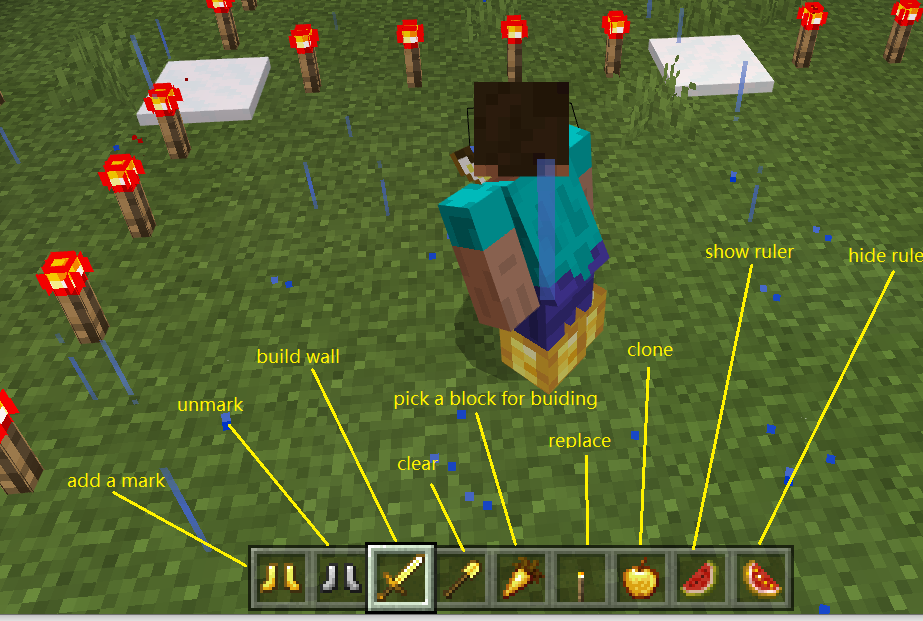
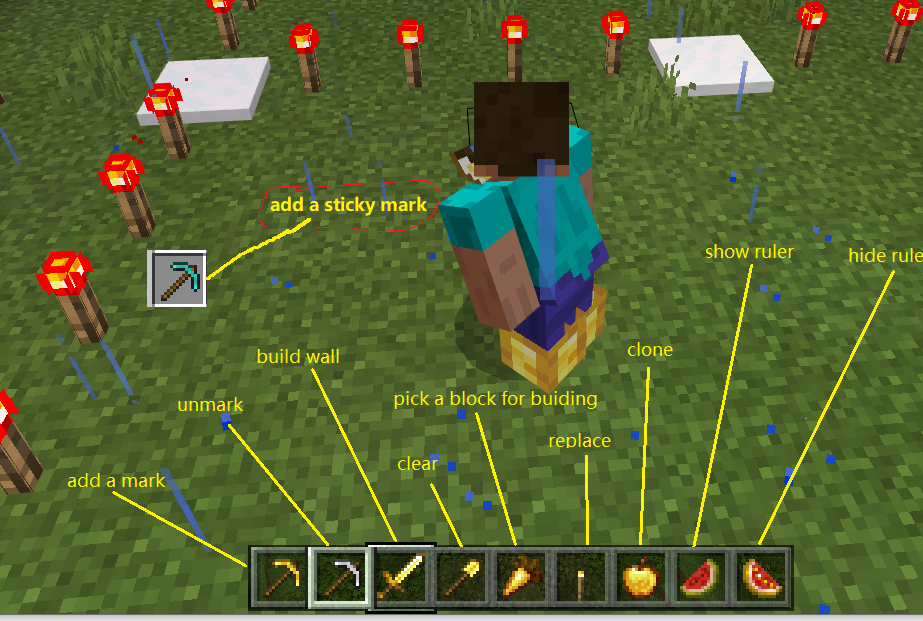
to support minecraft EE v1.14.x, replace boots with pickaxe

Changed region(s): [[0.273, 0.8567, 0.8797, 0.9791], [0.273, 0.306, 0.4854, 0.3977], [0.1517, 0.3977, 0.273, 0.5201]]

diff --git a/custom.ts b/custom.ts
@@ -1,4 +1,18 @@
-   /*
+ /*
+*******************************************************************************************************
+Copyright (c) 2020 magilisaau, magilisaau@gmail.com
+Author: Magi
+Contact: magilisaau@gmail.com
+CreateTime: 2020/04/20
+ModifyTime: 2020/6/28
+Description: the project is to help kids build house more efficiently and easily in the game minecraft
+*****************************MIT LICENSE, DO NOT CHANGE THE INFORMATION ABOVE***************************
+ebuilder document: https://github.com/magilisaau/ebuilder/blob/master/README.md
+how to build an underwater house in 6 minutes: https://youtu.be/zU4bbt1ONbc
+how to use ebuilder: https://youtu.be/V2RiOmHseGM
+how to import/install ebuilder extension to your minecraft:https://www.youtube.com/watch?v=j0soch-JSgI
+*/
+/*
 	Author: Magi
 	Contact: magilisaau@gmail.com
 	CreateTime: 2020/04/20

diff --git a/main.py b/main.py
@@ -1,20 +1,26 @@
 '''
+*******************************************************************************************************
+Copyright (c) 2020 magilisaau, magilisaau@gmail.com
 Author: Magi
 Contact: magilisaau@gmail.com
 CreateTime: 2020/04/20
 ModifyTime: 2020/6/28
 Description: the project is to help kids build house more efficiently and easily in the game minecraft
+*****************************MIT LICENSE, DO NOT CHANGE THE INFORMATION ABOVE***************************
+
+Author: Magi
+Contact: magilisaau@gmail.com
+ModifyTime: 2020/08/09
+Description: to support minecraft 1.14, replace golden boots with golden pickaxe, replace iron pickaxe with iron ingot
+             replace diamond boots with diamond pickaxe
 '''
 '''
-    This sourcecode include TWO main files
-    ---custom.ts: written in javascript, this is an extension which can be installed into Code Builder
-    this can be used seperately
-    ---main.py: written in python, implement a command list interface(CLI) and the graphical user interface(UI)
-    
-    ---buildAssistant.py: in python,this file has been obelete and no longer maintained, but it has been tested and can run seperately
-                 , I use python in the begining,but later I found the extension for minecraft can only be written in javascript, So it was
-                 devided into custom.ts and main.py.
+ebuilder document: https://github.com/magilisaau/ebuilder/blob/master/README.md
+how to build an underwater house in 6 minutes: https://youtu.be/zU4bbt1ONbc
+how to use ebuilder: https://youtu.be/V2RiOmHseGM
+how to import/install ebuilder extension to your minecraft:https://www.youtube.com/watch?v=j0soch-JSgI
 '''
+
 class setting:
     buildblock =GRASS
 def on_help():
@@ -64,9 +70,9 @@ player.on_chat("help", on_help)
 
 def help_ui(): 
     player.say("* right-click the block below to use *")
-    player.say("GOLDEN BOOTS: add a mark")
-    player.say("DIAMOND_BOOTS: add a sticky mark")
-    player.say("IRON BOOTS: umark")
+    player.say("GOLD PICKAXE: add a mark")
+    player.say("DIAMOND PICKAXE: add a sticky mark")
+    player.say("IRON PICKAXE: umark")
     player.say("GOLDEN SWORD: build wall")
     player.say("GOLDEN CARROT: choose a block")
     player.say("GOLDEN TORCH: replace")
@@ -246,14 +252,14 @@ def on_item_interacted_mark():
     ebuilder.acquire()
     ebuilder.mark(player.position())
     ebuilder.release()
-player.on_item_interacted(GOLDEN_BOOTS, on_item_interacted_mark)
+player.on_item_interacted(GOLDEN_PICKAXE, on_item_interacted_mark)
 
 def on_item_interacted_mark2():
     if not check_build_mode(): return
     ebuilder.acquire()
     ebuilder.mark2(player.position())
     ebuilder.release()
-player.on_item_interacted(DIAMOND_BOOTS, on_item_interacted_mark2)
+player.on_item_interacted(DIAMOND_PICKAXE, on_item_interacted_mark2)
 
 def on_item_interacted_unmark():
     if not check_build_mode(): return
@@ -263,7 +269,7 @@ def on_item_interacted_unmark():
     else:
         ebuilder.decrease_wall(1)
     ebuilder.release()
-player.on_item_interacted(IRON_BOOTS, on_item_interacted_unmark)
+player.on_item_interacted(IRON_PICKAXE, on_item_interacted_unmark)
 
 def on_item_interacted_clear():
     if not check_build_mode(): return
@@ -392,8 +398,8 @@ blocks.on_block_placed(0x40032, on_block_placed_south) #TORCH FACING NORTH
 
 # on stat,here
 player.execute("clear")
-mobs.give(mobs.target(ALL_PLAYERS),GOLDEN_BOOTS, 1)
-mobs.give(mobs.target(ALL_PLAYERS),IRON_BOOTS, 1)
+mobs.give(mobs.target(ALL_PLAYERS),GOLDEN_PICKAXE, 1)
+mobs.give(mobs.target(ALL_PLAYERS),IRON_PICKAXE, 1)
 mobs.give(mobs.target(ALL_PLAYERS),GOLDEN_SWORD, 1)
 mobs.give(mobs.target(ALL_PLAYERS),GOLDEN_SHOVEL, 1)
 mobs.give(mobs.target(ALL_PLAYERS),GOLDEN_CARROT, 1)
@@ -401,5 +407,5 @@ mobs.give(mobs.target(ALL_PLAYERS),TORCH, 1)
 mobs.give(mobs.target(ALL_PLAYERS),GOLDEN_APPLE, 1)
 mobs.give(mobs.target(ALL_PLAYERS),MELON, 1)
 mobs.give(mobs.target(ALL_PLAYERS),GLISTERING_MELON, 1)
-mobs.give(mobs.target(ALL_PLAYERS),DIAMOND_BOOTS, 1)
+mobs.give(mobs.target(ALL_PLAYERS),DIAMOND_PICKAXE, 1)
 

diff --git a/README.md b/README.md
@@ -1,10 +1,14 @@
 	Minecraft ebuilder Document
 
- Magi,  magilisaau@gmail.com, 2020.5.24				
+# Minecraft ebuilder Document
 
- sample video- ebuilder, how to build an underwater house in 6 minutes: https://youtu.be/zU4bbt1ONbc
+Magi,  magilisaau@gmail.com, 2020.5.24				
 
- youtube on ebuilder: https://youtu.be/V2RiOmHseGM
+how to build an underwater house in 6 minutes: https://youtu.be/zU4bbt1ONbc
+
+how to use ebuilder: https://youtu.be/V2RiOmHseGM
+
+how to import/install ebuilder extension to your minecraft:https://www.youtube.com/watch?v=j0soch-JSgI
 
 ## Introduction   
 
@@ -81,6 +85,8 @@ plant trees on the ground
 
 As mentioned before, the code can only be used on Minecraft EE,   you can get the game from https://education.minecraft.net/get-started/download/ , after logging in the game, press C key on your keyboard to open the coder builder, then import url https://github.com/magilisaau/ebuilder to your game,
 
+
+
 about how to import the code to you game, please refer to the teaching video on youtube https://www.youtube.com/watch?v=j0soch-JSgI
 
 ### Command Line Interface
@@ -120,17 +126,17 @@ sample video: Minecraft EE- build a underwater house in 6 minutes  https://youtu
 ![](https://github.com/magilisaau/ebuilder/blob/master/pic/ui2.png?raw=true)
 
 ```
-GOLDEN BOOTS: 	add a mark
-DIAMOND_BOOTS: 	add a sticky mark
-IRON BOOTS: 	umark/decrease a wall
-GOLDEN SWORD:	 build a wall/ increase a wall
-GOLDEN CARROT: 	choose a block
-GOLDEN TORCH:	 replace
-GOLDEN APPLE: 	clone
-GOLDEN SHOVEL: 	clear
-MELON: 			show ruler
-GLISTERING MELON: hide ruler
-GOLDEN_LEGGINGS: reset
+GOLDEN PICKAXE: 	add a mark (2020-08-09, replace boots with pickaxe)
+DIAMOND PICKAXE: 	add a sticky mark (2020-08-09, replace boots with pickaxe)
+IRON PICKAXE: 		umark/decrease a wall (2020-08-09, replace boots with pickaxe)
+GOLDEN SWORD:	 	build a wall/ increase a wall
+GOLDEN CARROT: 	 	choose a block
+GOLDEN TORCH:	 	replace
+GOLDEN APPLE: 	 	clone
+GOLDEN SHOVEL: 	 	clear
+MELON: 			 	show ruler
+GLISTERING MELON: 	hide ruler
+GOLDEN_LEGGINGS:  	reset
 ```
 
 **Pick a building block**:  before build a wall, you must choose what block to be used,  there are two ways to pick a block.  for example, if we use stone to build a wall, you can do as follows
@@ -161,8 +167,8 @@ step 4) input command "wall"
 ```
 way 2
 step 1) right-click the golden carrot to pick a block
-step 2) add a mark by right-click golden boots
-step 3) move to other position and add the second mark by right-click golden boots 
+step 2) add a mark by right-click golden pickaxe
+step 3) move to other position and add the second mark by right-click golden pickaxe 
 step 4) right-click the golden sword
 ```
 
@@ -171,15 +177,15 @@ step 4) right-click the golden sword
 **Clone a wall:**
 
 ```
-1. right-click the golden boots to add the first mark, and move to a new place
-2. right-click the golden boots to add the second mark, then move to the place
+1. right-click the golden pickaxe to add the first mark, and move to a new place
+2. right-click the golden pickaxe to add the second mark, then move to the place
 3. right-click the golden apple to clone the wall to the new place
 ```
 
 **Replace a type of block to another on a wall**
 
 ```
-1. pick a new block by right-click golden boots
+1. pick a new block by right-click golden pickaxe
 2. move to the front of the wall
 3. put a torch to one of the block to replace in front of you
 ```
